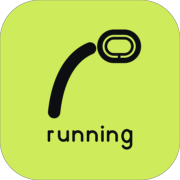
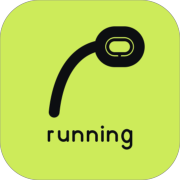
Let the arc become the track, not point at it
The track sat beside the arc as a separate object. Now it is the same stroke:
the arc sweeps up at 4.8 and, at that same weight and colour, closes into the
oval — one continuous silhouette rather than a swoosh plus a badge. The curve
is cut at t=0.90 so its end lands exactly on the oval's left edge.

Arc and outer lane take currentColor together. The inner lane and finish line
take --track, which puts a volt lane inside a white track on dark grounds and
flips the whole thing dark on volt ones.

Weight went 5.5 -> 4.8. That is a real departure from the family's arc, and it
buys the thing the badge could not have: at 5.5 the oval has to grow until its
infield closes up and the lane inside it has nowhere to go.

Claude-Session: https://claude.ai/code/session_01Rpgy3MGkNVJdJS6iSkb2k8

diff --git a/js/ui.js b/js/ui.js
@@ -1,20 +1,20 @@
-/* Shared FORM shell pieces. The mark is the FORM arc running into a track: two
-   lanes and a finish line seen from above, infield left open so the ground
-   shows through. Cycling hangs a chainring off the same arc and Golf its own
-   device, but where those sit in a badge AT the tip, this one is the place the
-   arc arrives at — which is why the arc stops short. The curve is the family's,
-   cut at t=0.78 by de Casteljau; only where it ends changes.
+/* Shared FORM shell pieces. The mark is the FORM arc BECOMING a track: the arc
+   sweeps up and, at the same stroke weight, closes into an oval seen from
+   above, with a lane and a finish line inside it. Cycling hangs a chainring off
+   the same arc and Golf its own device — badges sitting at the tip. This one is
+   not a badge: it is where the arc ends up, which is why the two share a weight
+   and a colour and read as a single stroke rather than two objects.
 
-   The arc takes currentColor. The track takes --track, so a volt surface can
-   flip it dark — on the nav disc and the app icon the accent is the ground. */
+   The curve is the family's, cut at t=0.90 by de Casteljau so its end lands on
+   the oval's left edge. Arc and outer lane take currentColor; the inner lane
+   and finish line take --track, so a volt surface can flip them dark — on the
+   nav disc and the app icon the accent is the ground. */
 
 export const MARK = `<svg class="mark" viewBox="0 0 48 48" aria-hidden="true">
-  <path d="M6 40 C7.56 25.18 13.38 15.23 22.03 11.57" fill="none" stroke="currentColor" stroke-width="5.5" stroke-linecap="round"/>
-  <g class="track">
-    <rect x="26.4" y="4.3" width="17.2" height="12.6" rx="6.3" fill="none" stroke="var(--track, #CDEB5A)" stroke-width="2.4"/>
-    <rect x="29.1" y="7" width="11.8" height="7.2" rx="3.6" fill="none" stroke="var(--track, #CDEB5A)" stroke-width="1.2"/>
-    <path d="M35 14.2 L35 15.75" stroke="var(--track, #CDEB5A)" stroke-width="1.2" stroke-linecap="round"/>
-  </g>
+  <path d="M6 40 C7.8 22.9 15.27 12.28 26.22 10.33" fill="none" stroke="currentColor" stroke-width="4.8" stroke-linecap="round"/>
+  <rect x="26.4" y="4.1" width="17.6" height="13.4" rx="6.7" fill="none" stroke="currentColor" stroke-width="4.8"/>
+  <rect x="29.9" y="7.7" width="10.6" height="6.2" rx="3.1" fill="none" stroke="var(--track, #CDEB5A)" stroke-width="1.35"/>
+  <path d="M35.2 13.9 L35.2 15.4" stroke="var(--track, #CDEB5A)" stroke-width="1.35" stroke-linecap="round"/>
 </svg>`;
 
 export function appbar(meta = "") {

diff --git a/index.html b/index.html
@@ -25,7 +25,7 @@
       <span>Coach</span></a>
 
     <a href="#/analyze" class="cta" data-r="analyze">
-      <span class="disc"><svg class="mark" viewBox="0 0 48 48" aria-hidden="true"><path d="M6 40 C7.56 25.18 13.38 15.23 22.03 11.57" fill="none" stroke="currentColor" stroke-width="5.5" stroke-linecap="round"/><g class="track"><rect x="26.4" y="4.3" width="17.2" height="12.6" rx="6.3" fill="none" stroke="var(--track, #CDEB5A)" stroke-width="2.4"/><rect x="29.1" y="7" width="11.8" height="7.2" rx="3.6" fill="none" stroke="var(--track, #CDEB5A)" stroke-width="1.2"/><path d="M35 14.2 L35 15.75" stroke="var(--track, #CDEB5A)" stroke-width="1.2" stroke-linecap="round"/></g></svg><span class="disclbl">FORM</span></span></a>
+      <span class="disc"><svg class="mark" viewBox="0 0 48 48" aria-hidden="true"><path d="M6 40 C7.8 22.9 15.27 12.28 26.22 10.33" fill="none" stroke="currentColor" stroke-width="4.8" stroke-linecap="round"/><rect x="26.4" y="4.1" width="17.6" height="13.4" rx="6.7" fill="none" stroke="currentColor" stroke-width="4.8"/><rect x="29.9" y="7.7" width="10.6" height="6.2" rx="3.1" fill="none" stroke="var(--track, #CDEB5A)" stroke-width="1.35"/><path d="M35.2 13.9 L35.2 15.4" stroke="var(--track, #CDEB5A)" stroke-width="1.35" stroke-linecap="round"/></svg><span class="disclbl">FORM</span></span></a>
 
     <a href="#/journey" data-r="journey">
       <svg class="nico" viewBox="0 0 24 24"><path d="M6 21V4"/><path d="M6 4.5h10.5L14 8.5l2.5 4H6"/></svg>
